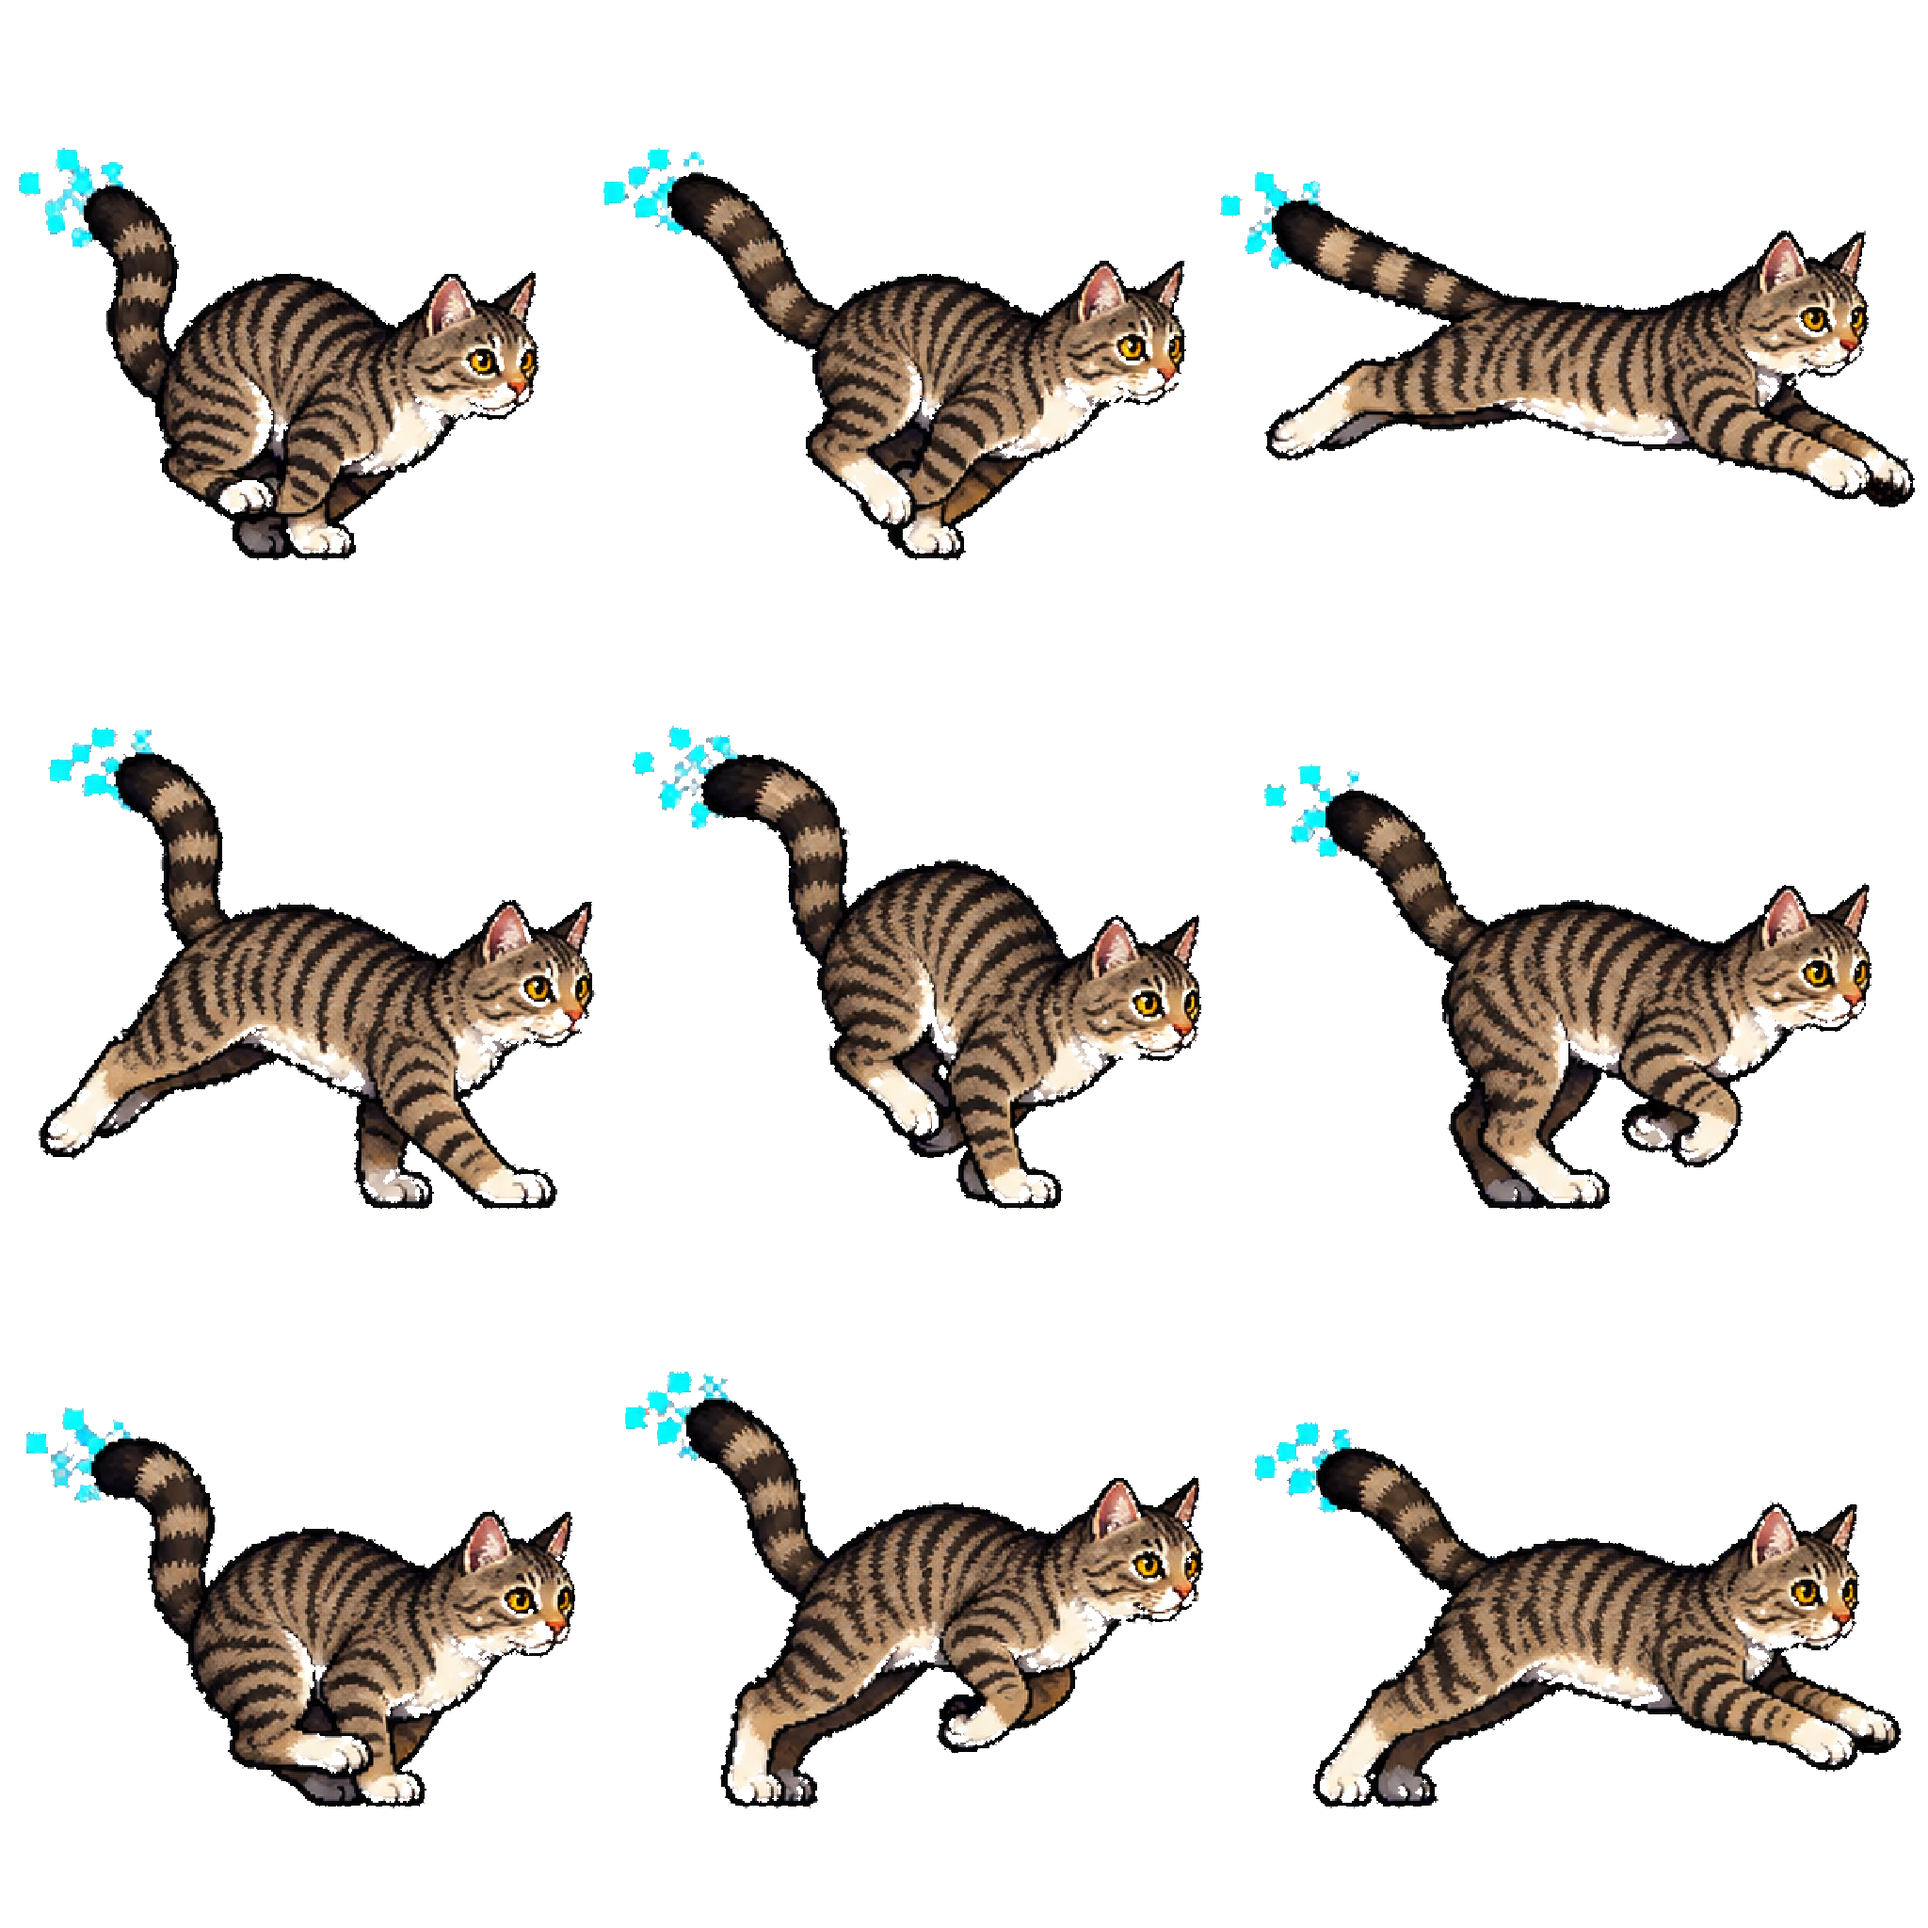
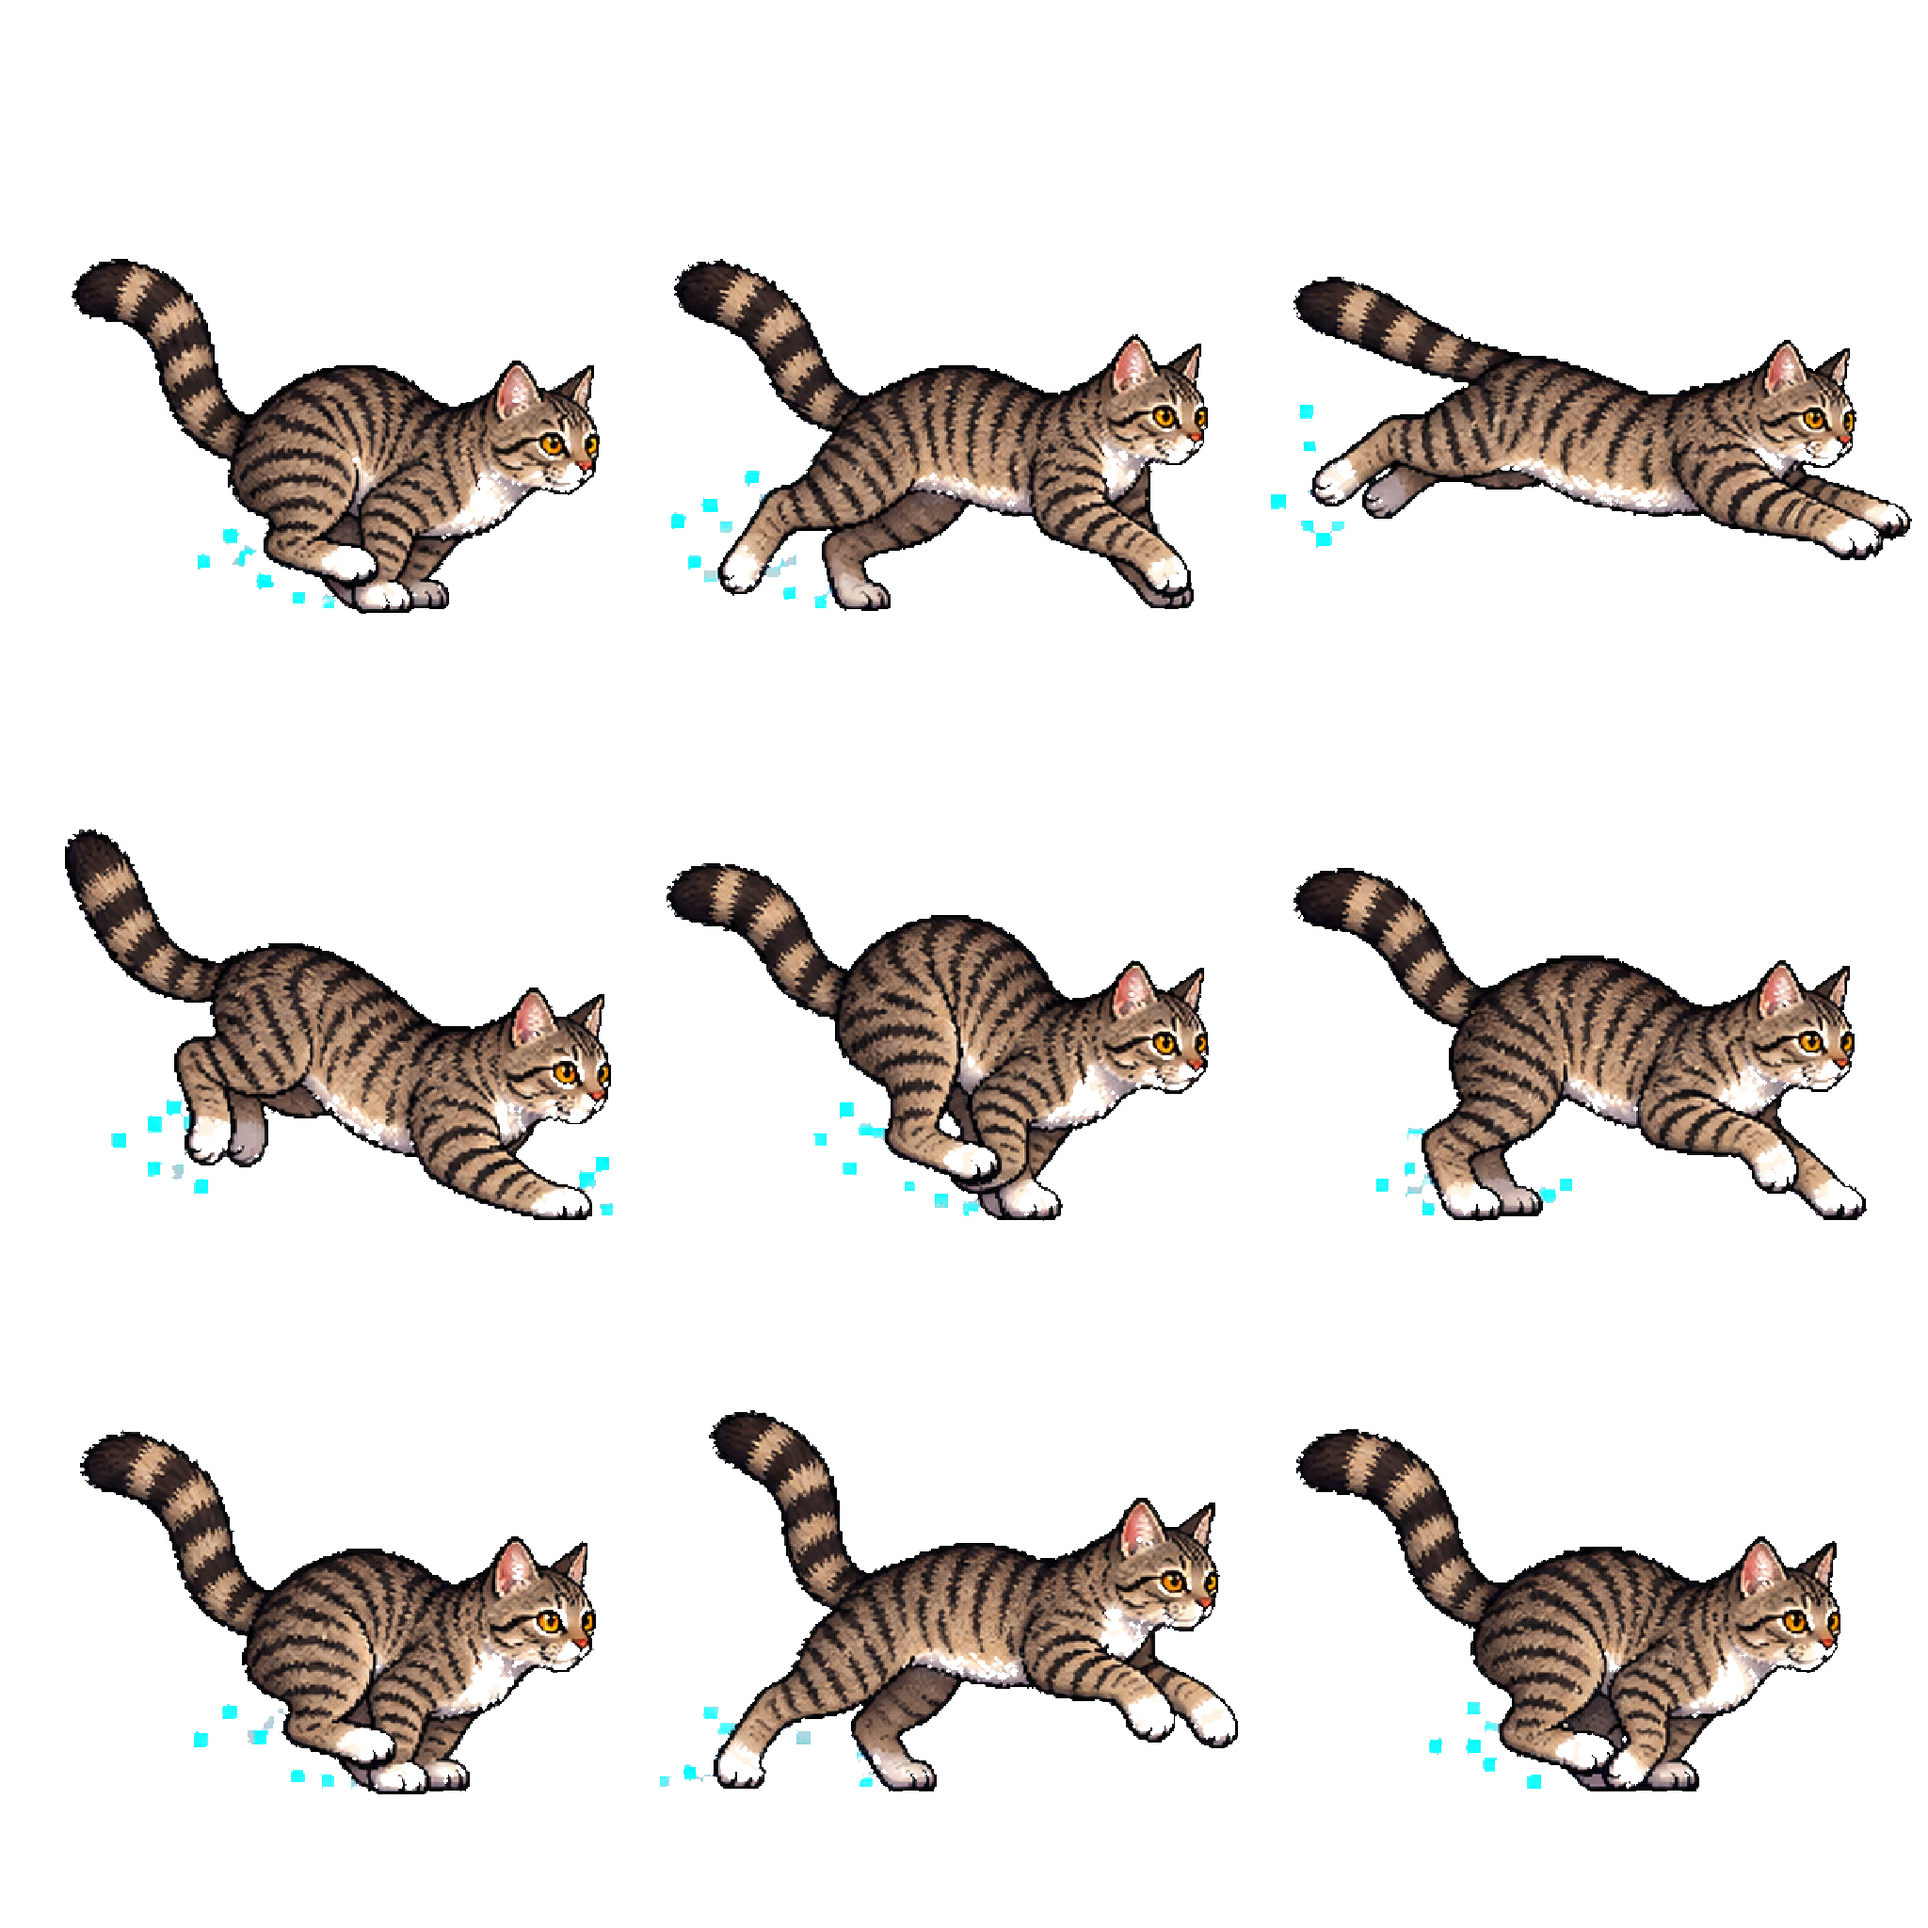
Regenerate pitz run animation

diff --git a/docs/prompts/QUEUE-LOG.md b/docs/prompts/QUEUE-LOG.md
@@ -9,3 +9,5 @@
 14:15 glass-warden approach attempt 1 → PASS
 14:19 glass-warden attack attempt 1 → PASS
 14:24 glass-warden special attempt 1 → PASS
+14:32 pitz action attempt 4 → PASS
+14:33 pitz committed: PASS — baseline escalation step 1 (failing rule first and bolded)
